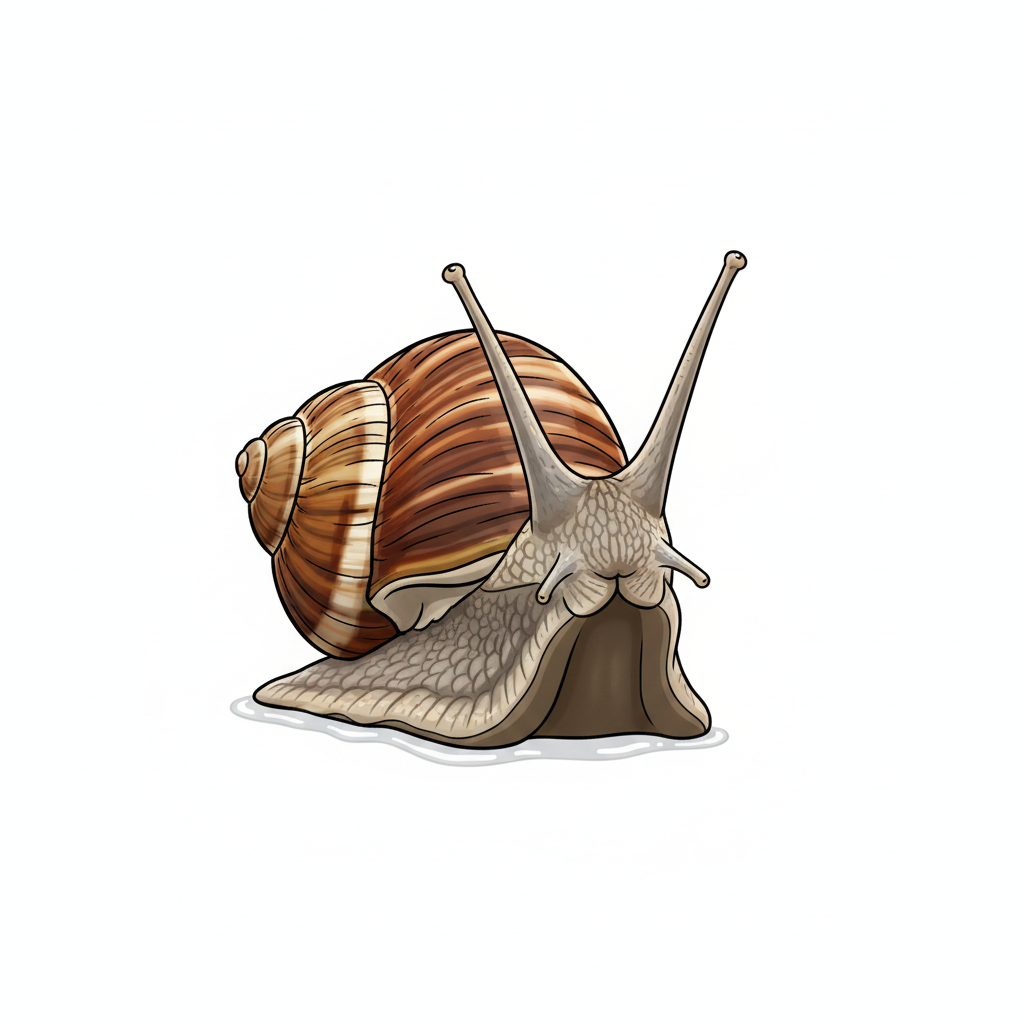
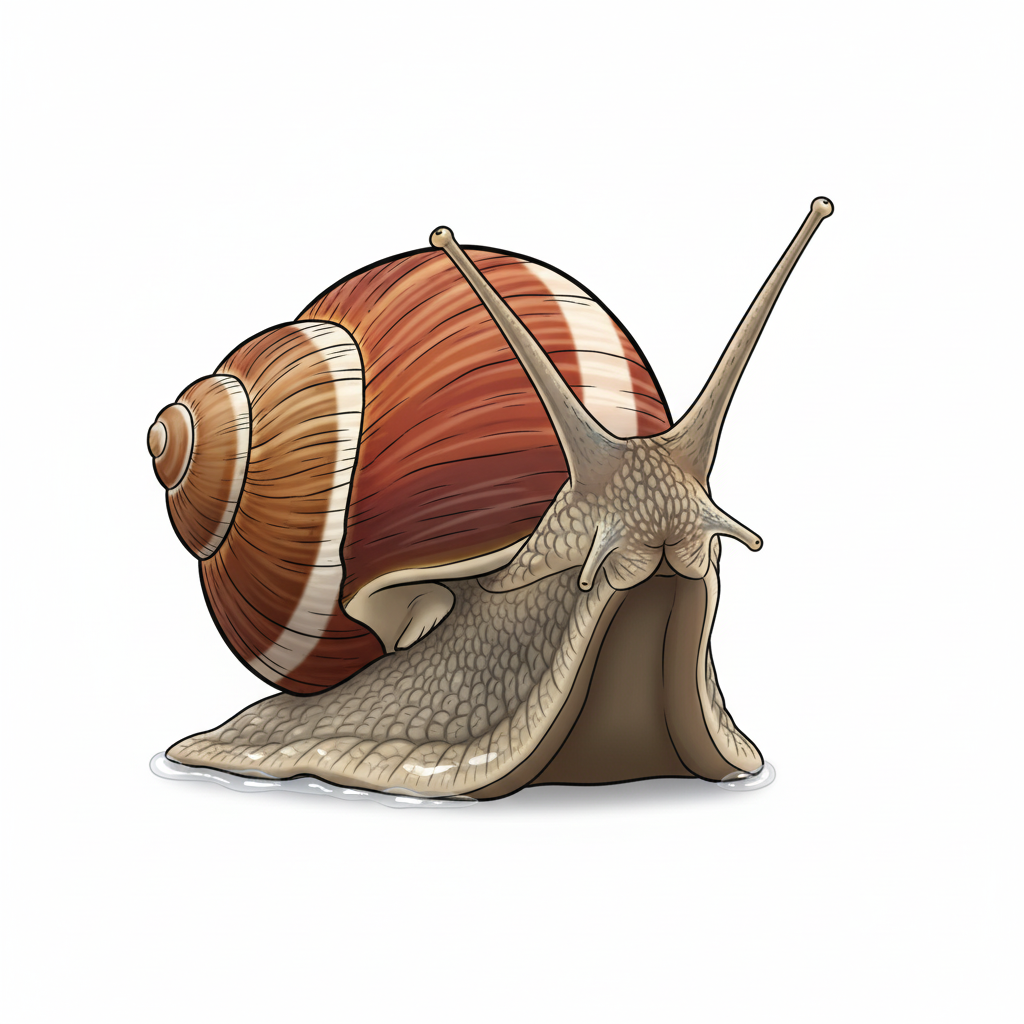
Add SVG illustrations for various human body systems and organs
- Added SVG illustrations for the pancreas, including:
  - p08-ilustrasi-belakang.svg
  - p09-ilustrasi-kiri.svg
  - p10-ilustrasi-kanan.svg

- Added PNG illustrations for the lungs:
  - p08-ilustrasi-belakang.png
  - p10-ilustrasi-kanan.png

- Added SVG illustration for blood vessels:
  - p03-penampang-belah.svg

- Added illustrations for male reproductive system:
  - p02-ilustrasi-depan.svg
  - p03-penampang-belah.svg
  - p04-penampang-transparan.svg

- Added SVG illustrations for female reproductive system:
  - p10-ilustrasi-kanan.svg

- Added SVG illustrations for blood cells:
  - p04-penampang-transparan.svg

- Added SVG illustrations for the respiratory system:
  - p08-ilustrasi-belakang.svg
  - p10-ilustrasi-kanan.svg
  - p12-penampang-transparan.svg

- Added SVG illustrations for the urinary system:
  - p07-ilustrasi-depan.svg
  - p08-ilustrasi-belakang.svg

Changed region(s): [[0.125, 0.1875, 0.8125, 0.8125]]

diff --git a/osn-app/image-results/_galeri.html b/osn-app/image-results/_galeri.html
@@ -8,7 +8,7 @@ figcaption span{color:#fff;border-radius:99px;padding:1px 8px;font-size:12px}sma
 .tabs button.active{background:#0f172a;color:#fff;border-color:#0f172a}
 .tabs-mapel button{font-weight:600}
 .tabs-bab{margin-top:12px}</style>
-<h1>Galeri gambar OSN SD</h1><p>1690 gambar dari 366 objek · klik gambar untuk ukuran penuh · muat ulang halaman ini untuk melihat gambar terbaru (setelah menjalankan galeri.mjs lagi)</p>
+<h1>Galeri gambar OSN SD</h1><p>1692 gambar dari 366 objek · klik gambar untuk ukuran penuh · muat ulang halaman ini untuk melihat gambar terbaru (setelah menjalankan galeri.mjs lagi)</p>
 <nav class="tabs tabs-mapel"><button class="tab-mapel active" data-mapel="ipa">IPA</button><button class="tab-mapel" data-mapel="mtk">MTK</button></nav>
 <div class="panel-mapel" data-mapel="ipa" >
 <nav class="tabs tabs-bab"><button class="tab-bab active" data-bab="01-makhluk-hidup">01-makhluk-hidup</button><button class="tab-bab" data-bab="02-tubuh-manusia">02-tubuh-manusia</button><button class="tab-bab" data-bab="03-gaya-gerak-energi">03-gaya-gerak-energi</button><button class="tab-bab" data-bab="04-cahaya-bunyi-panas-zat">04-cahaya-bunyi-panas-zat</button><button class="tab-bab" data-bab="05-bumi-antariksa">05-bumi-antariksa</button><button class="tab-bab" data-bab="06-metode-ilmiah-alat-lab">06-metode-ilmiah-alat-lab</button></nav>
@@ -88,7 +88,8 @@ figcaption span{color:#fff;border-radius:99px;padding:1px 8px;font-size:12px}sma
 <figcaption><b>p05-realistis-kanan</b> <span style="background:#16a34a">lolos</span><small>Profil samping kanan murni, cermin dari versi kiri (p04), kepala/tentakel mengarah ke kanan gambar sesuai instruksi, konsisten warna dan proporsi.</small></figcaption></figure><figure><a href="ipa/01-makhluk-hidup/bekicot/p06-ilustrasi-turnaround.png" target="_blank"><img loading="lazy" src="ipa/01-makhluk-hidup/bekicot/p06-ilustrasi-turnaround.png" alt="bekicot p06-ilustrasi-turnaround.png"></a>
 <figcaption><b>p06-ilustrasi-turnaround</b> <span style="background:#d97706">revisi</span><small>Semua salinan tampak depan/miring; cangkang bulat. Prompt: &quot;Four copies: front, back, left, right; tall conical Achatina shell.&quot;</small></figcaption></figure><figure><a href="ipa/01-makhluk-hidup/bekicot/p07-ilustrasi-depan.png" target="_blank"><img loading="lazy" src="ipa/01-makhluk-hidup/bekicot/p07-ilustrasi-depan.png" alt="bekicot p07-ilustrasi-depan.png"></a>
 <figcaption><b>p07-ilustrasi-depan</b> <span style="background:#16a34a">lolos</span><small>Lolos: cangkang kerucut, 2 tentakel panjang bermata + 2 pendek.</small></figcaption></figure><figure><a href="ipa/01-makhluk-hidup/bekicot/p08-ilustrasi-belakang.png" target="_blank"><img loading="lazy" src="ipa/01-makhluk-hidup/bekicot/p08-ilustrasi-belakang.png" alt="bekicot p08-ilustrasi-belakang.png"></a>
-<figcaption><b>p08-ilustrasi-belakang</b> <span style="background:#16a34a">lolos</span><small>Lolos: cangkang kerucut, 2 tentakel panjang bermata + 2 pendek.</small></figcaption></figure></div></section><section><h2>belalang <em>ipa/01-makhluk-hidup/belalang</em></h2><div class="grid"><figure><a href="ipa/01-makhluk-hidup/belalang/p01-realistis-turnaround.png" target="_blank"><img loading="lazy" src="ipa/01-makhluk-hidup/belalang/p01-realistis-turnaround.png" alt="belalang p01-realistis-turnaround.png"></a>
+<figcaption><b>p08-ilustrasi-belakang</b> <span style="background:#16a34a">lolos</span><small>Lolos: cangkang kerucut, 2 tentakel panjang bermata + 2 pendek.</small></figcaption></figure><figure><a href="ipa/01-makhluk-hidup/bekicot/p09-ilustrasi-kiri.png" target="_blank"><img loading="lazy" src="ipa/01-makhluk-hidup/bekicot/p09-ilustrasi-kiri.png" alt="bekicot p09-ilustrasi-kiri.png"></a>
+<figcaption><b>p09-ilustrasi-kiri</b> <span style="background:#64748b">belum direview</span></figcaption></figure></div></section><section><h2>belalang <em>ipa/01-makhluk-hidup/belalang</em></h2><div class="grid"><figure><a href="ipa/01-makhluk-hidup/belalang/p01-realistis-turnaround.png" target="_blank"><img loading="lazy" src="ipa/01-makhluk-hidup/belalang/p01-realistis-turnaround.png" alt="belalang p01-realistis-turnaround.png"></a>
 <figcaption><b>p01-realistis-turnaround</b> <span style="background:#d97706">revisi</span><small>Keempat salinan sama-sama tampak atas/depan. Prompt: &quot;Four copies: front, back, left profile, right profile.&quot;</small></figcaption></figure><figure><a href="ipa/01-makhluk-hidup/belalang/p02-realistis-depan.png" target="_blank"><img loading="lazy" src="ipa/01-makhluk-hidup/belalang/p02-realistis-depan.png" alt="belalang p02-realistis-depan.png"></a>
 <figcaption><b>p02-realistis-depan</b> <span style="background:#16a34a">lolos</span><small>Lolos: 6 kaki, kaki belakang besar untuk melompat, sayap depan menutupi; penampang dengan callout kosong.</small></figcaption></figure><figure><a href="ipa/01-makhluk-hidup/belalang/p04-realistis-kiri.png" target="_blank"><img loading="lazy" src="ipa/01-makhluk-hidup/belalang/p04-realistis-kiri.png" alt="belalang p04-realistis-kiri.png"></a>
 <figcaption><b>p04-realistis-kiri</b> <span style="background:#16a34a">lolos</span><small>Lolos: 6 kaki, kaki belakang besar untuk melompat, sayap depan menutupi; penampang dengan callout kosong.</small></figcaption></figure><figure><a href="ipa/01-makhluk-hidup/belalang/p05-realistis-kanan.png" target="_blank"><img loading="lazy" src="ipa/01-makhluk-hidup/belalang/p05-realistis-kanan.png" alt="belalang p05-realistis-kanan.png"></a>
@@ -911,8 +912,10 @@ figcaption span{color:#fff;border-radius:99px;padding:1px 8px;font-size:12px}sma
 <figcaption><b>p04-realistis-kiri</b> <span style="background:#16a34a">lolos</span><small>Lolos (perlu paraf guru IPA): paru kanan 3 lobus (sisi kiri gambar), paru kiri 2 lobus dengan lekuk jantung, trakea dan bronkus; pembuluh merah/biru.</small></figcaption></figure><figure><a href="ipa/02-tubuh-manusia/paru-paru/p05-realistis-kanan.png" target="_blank"><img loading="lazy" src="ipa/02-tubuh-manusia/paru-paru/p05-realistis-kanan.png" alt="paru-paru p05-realistis-kanan.png"></a>
 <figcaption><b>p05-realistis-kanan</b> <span style="background:#16a34a">lolos</span><small>Lolos (perlu paraf guru IPA): paru kanan 3 lobus (sisi kiri gambar), paru kiri 2 lobus dengan lekuk jantung, trakea dan bronkus; pembuluh merah/biru.</small></figcaption></figure><figure><a href="ipa/02-tubuh-manusia/paru-paru/p06-ilustrasi-turnaround.png" target="_blank"><img loading="lazy" src="ipa/02-tubuh-manusia/paru-paru/p06-ilustrasi-turnaround.png" alt="paru-paru p06-ilustrasi-turnaround.png"></a>
 <figcaption><b>p06-ilustrasi-turnaround</b> <span style="background:#d97706">revisi</span><small>Keempat salinan identik tampak depan. Prompt: &quot;Four copies: anterior, posterior, left lateral, right lateral.&quot;</small></figcaption></figure><figure><a href="ipa/02-tubuh-manusia/paru-paru/p07-ilustrasi-depan.png" target="_blank"><img loading="lazy" src="ipa/02-tubuh-manusia/paru-paru/p07-ilustrasi-depan.png" alt="paru-paru p07-ilustrasi-depan.png"></a>
-<figcaption><b>p07-ilustrasi-depan</b> <span style="background:#16a34a">lolos</span><small>Paru kanan (kiri gambar) 3 lobus, paru kiri (kanan gambar) 2 lobus dengan lekuk jantung, trakea bercincin, bronkus. Benar. Tetap perlu cek guru.</small></figcaption></figure><figure><a href="ipa/02-tubuh-manusia/paru-paru/p09-ilustrasi-kiri.png" target="_blank"><img loading="lazy" src="ipa/02-tubuh-manusia/paru-paru/p09-ilustrasi-kiri.png" alt="paru-paru p09-ilustrasi-kiri.png"></a>
-<figcaption><b>p09-ilustrasi-kiri</b> <span style="background:#16a34a">lolos</span><small>Lolos (perlu paraf guru IPA): paru kanan 3 lobus (sisi kiri gambar), paru kiri 2 lobus dengan lekuk jantung, trakea dan bronkus; pembuluh merah/biru.</small></figcaption></figure><figure><a href="ipa/02-tubuh-manusia/paru-paru/p11-penampang-belah.png" target="_blank"><img loading="lazy" src="ipa/02-tubuh-manusia/paru-paru/p11-penampang-belah.png" alt="paru-paru p11-penampang-belah.png"></a>
+<figcaption><b>p07-ilustrasi-depan</b> <span style="background:#16a34a">lolos</span><small>Paru kanan (kiri gambar) 3 lobus, paru kiri (kanan gambar) 2 lobus dengan lekuk jantung, trakea bercincin, bronkus. Benar. Tetap perlu cek guru.</small></figcaption></figure><figure><a href="ipa/02-tubuh-manusia/paru-paru/p08-ilustrasi-belakang.png" target="_blank"><img loading="lazy" src="ipa/02-tubuh-manusia/paru-paru/p08-ilustrasi-belakang.png" alt="paru-paru p08-ilustrasi-belakang.png"></a>
+<figcaption><b>p08-ilustrasi-belakang</b> <span style="background:#64748b">belum direview</span></figcaption></figure><figure><a href="ipa/02-tubuh-manusia/paru-paru/p09-ilustrasi-kiri.png" target="_blank"><img loading="lazy" src="ipa/02-tubuh-manusia/paru-paru/p09-ilustrasi-kiri.png" alt="paru-paru p09-ilustrasi-kiri.png"></a>
+<figcaption><b>p09-ilustrasi-kiri</b> <span style="background:#16a34a">lolos</span><small>Lolos (perlu paraf guru IPA): paru kanan 3 lobus (sisi kiri gambar), paru kiri 2 lobus dengan lekuk jantung, trakea dan bronkus; pembuluh merah/biru.</small></figcaption></figure><figure><a href="ipa/02-tubuh-manusia/paru-paru/p10-ilustrasi-kanan.png" target="_blank"><img loading="lazy" src="ipa/02-tubuh-manusia/paru-paru/p10-ilustrasi-kanan.png" alt="paru-paru p10-ilustrasi-kanan.png"></a>
+<figcaption><b>p10-ilustrasi-kanan</b> <span style="background:#64748b">belum direview</span></figcaption></figure><figure><a href="ipa/02-tubuh-manusia/paru-paru/p11-penampang-belah.png" target="_blank"><img loading="lazy" src="ipa/02-tubuh-manusia/paru-paru/p11-penampang-belah.png" alt="paru-paru p11-penampang-belah.png"></a>
 <figcaption><b>p11-penampang-belah</b> <span style="background:#16a34a">lolos</span><small>Cabang bronkus, arteri (biru) dan vena (merah) pulmonalis, garis putus-putus pemisah lobus (3 kiri gambar, 2 kanan gambar), label kosong. Benar.</small></figcaption></figure><figure><a href="ipa/02-tubuh-manusia/paru-paru/p12-penampang-transparan.png" target="_blank"><img loading="lazy" src="ipa/02-tubuh-manusia/paru-paru/p12-penampang-transparan.png" alt="paru-paru p12-penampang-transparan.png"></a>
 <figcaption><b>p12-penampang-transparan</b> <span style="background:#16a34a">lolos</span><small>Lolos (perlu paraf guru IPA): paru kanan 3 lobus (sisi kiri gambar), paru kiri 2 lobus dengan lekuk jantung, trakea dan bronkus; pembuluh merah/biru.</small></figcaption></figure></div></section><section><h2>pembuluh-darah-set <em>ipa/02-tubuh-manusia/pembuluh-darah-set</em></h2><div class="grid"><figure><a href="ipa/02-tubuh-manusia/pembuluh-darah-set/p01-realistis-depan.png" target="_blank"><img loading="lazy" src="ipa/02-tubuh-manusia/pembuluh-darah-set/p01-realistis-depan.png" alt="pembuluh-darah-set p01-realistis-depan.png"></a>
 <figcaption><b>p01-realistis-depan</b> <span style="background:#16a34a">lolos</span><small>Lolos: arteri berdinding tebal, vena berdinding tipis dengan katup, kapiler selapis sel dengan sel darah merah berbaris.</small></figcaption></figure><figure><a href="ipa/02-tubuh-manusia/pembuluh-darah-set/p02-ilustrasi-depan.png" target="_blank"><img loading="lazy" src="ipa/02-tubuh-manusia/pembuluh-darah-set/p02-ilustrasi-depan.png" alt="pembuluh-darah-set p02-ilustrasi-depan.png"></a>
@@ -1157,8 +1160,7 @@ figcaption span{color:#fff;border-radius:99px;padding:1px 8px;font-size:12px}sma
 <figcaption><b>p08-ilustrasi-belakang</b> <span style="background:#16a34a">lolos</span><small>Lolos: latar hitam benar, full body.</small></figcaption></figure><figure><a href="ipa/03-gaya-gerak-energi/lilin-menyala/p09-ilustrasi-kiri.png" target="_blank"><img loading="lazy" src="ipa/03-gaya-gerak-energi/lilin-menyala/p09-ilustrasi-kiri.png" alt="lilin-menyala p09-ilustrasi-kiri.png"></a>
 <figcaption><b>p09-ilustrasi-kiri</b> <span style="background:#16a34a">lolos</span><small>Lolos: latar hitam benar.</small></figcaption></figure></div></section><section><h2>magnet-bentuk-set <em>ipa/03-gaya-gerak-energi/magnet-bentuk-set</em></h2><div class="grid"><figure><a href="ipa/03-gaya-gerak-energi/magnet-bentuk-set/p01-realistis-depan.png" target="_blank"><img loading="lazy" src="ipa/03-gaya-gerak-energi/magnet-bentuk-set/p01-realistis-depan.png" alt="magnet-bentuk-set p01-realistis-depan.png"></a>
 <figcaption><b>p01-realistis-depan</b> <span style="background:#16a34a">lolos</span><small>Lolos: 5 bentuk magnet benar, tanpa huruf N/S.</small></figcaption></figure></div></section><section><h2>magnet-serbuk-besi <em>ipa/03-gaya-gerak-energi/magnet-serbuk-besi</em></h2><div class="grid"><figure><a href="ipa/03-gaya-gerak-energi/magnet-serbuk-besi/p01-realistis-atas.png" target="_blank"><img loading="lazy" src="ipa/03-gaya-gerak-energi/magnet-serbuk-besi/p01-realistis-atas.png" alt="magnet-serbuk-besi p01-realistis-atas.png"></a>
-<figcaption><b>p01-realistis-atas</b> <span style="background:#16a34a">lolos</span><small>Lolos: pola garis gaya akurat.</small></figcaption></figure><figure><a href="ipa/03-gaya-gerak-energi/magnet-serbuk-besi/p02-ilustrasi-atas.png" target="_blank"><img loading="lazy" src="ipa/03-gaya-gerak-energi/magnet-serbuk-besi/p02-ilustrasi-atas.png" alt="magnet-serbuk-besi p02-ilustrasi-atas.png"></a>
-<figcaption><b>p02-ilustrasi-atas</b> <span style="background:#64748b">belum direview</span></figcaption></figure></div></section><section><h2>momentum-bola-set <em>ipa/03-gaya-gerak-energi/momentum-bola-set</em></h2><div class="grid"><figure><a href="ipa/03-gaya-gerak-energi/momentum-bola-set/p01-realistis-depan.png" target="_blank"><img loading="lazy" src="ipa/03-gaya-gerak-energi/momentum-bola-set/p01-realistis-depan.png" alt="momentum-bola-set p01-realistis-depan.png"></a>
+<figcaption><b>p01-realistis-atas</b> <span style="background:#16a34a">lolos</span><small>Lolos: pola garis gaya akurat.</small></figcaption></figure></div></section><section><h2>momentum-bola-set <em>ipa/03-gaya-gerak-energi/momentum-bola-set</em></h2><div class="grid"><figure><a href="ipa/03-gaya-gerak-energi/momentum-bola-set/p01-realistis-depan.png" target="_blank"><img loading="lazy" src="ipa/03-gaya-gerak-energi/momentum-bola-set/p01-realistis-depan.png" alt="momentum-bola-set p01-realistis-depan.png"></a>
 <figcaption><b>p01-realistis-depan</b> <span style="background:#16a34a">lolos</span><small>Lolos: bola pingpong vs bowling, motion-blur sepanjang serupa, tanpa teks.</small></figcaption></figure><figure><a href="ipa/03-gaya-gerak-energi/momentum-bola-set/p02-ilustrasi-depan.png" target="_blank"><img loading="lazy" src="ipa/03-gaya-gerak-energi/momentum-bola-set/p02-ilustrasi-depan.png" alt="momentum-bola-set p02-ilustrasi-depan.png"></a>
 <figcaption><b>p02-ilustrasi-depan</b> <span style="background:#16a34a">lolos</span><small>Lolos: konsisten.</small></figcaption></figure></div></section><section><h2>neraca-pegas <em>ipa/03-gaya-gerak-energi/neraca-pegas</em></h2><div class="grid"><figure><a href="ipa/03-gaya-gerak-energi/neraca-pegas/p01-realistis-turnaround.png" target="_blank"><img loading="lazy" src="ipa/03-gaya-gerak-energi/neraca-pegas/p01-realistis-turnaround.png" alt="neraca-pegas p01-realistis-turnaround.png"></a>
 <figcaption><b>p01-realistis-turnaround</b> <span style="background:#16a34a">lolos</span><small>Disusun otomatis dari p02, p03, p04, p05 (depan, belakang, kiri, kanan) yang sudah lolos review.</small></figcaption></figure><figure><a href="ipa/03-gaya-gerak-energi/neraca-pegas/p02-realistis-depan.png" target="_blank"><img loading="lazy" src="ipa/03-gaya-gerak-energi/neraca-pegas/p02-realistis-depan.png" alt="neraca-pegas p02-realistis-depan.png"></a>
